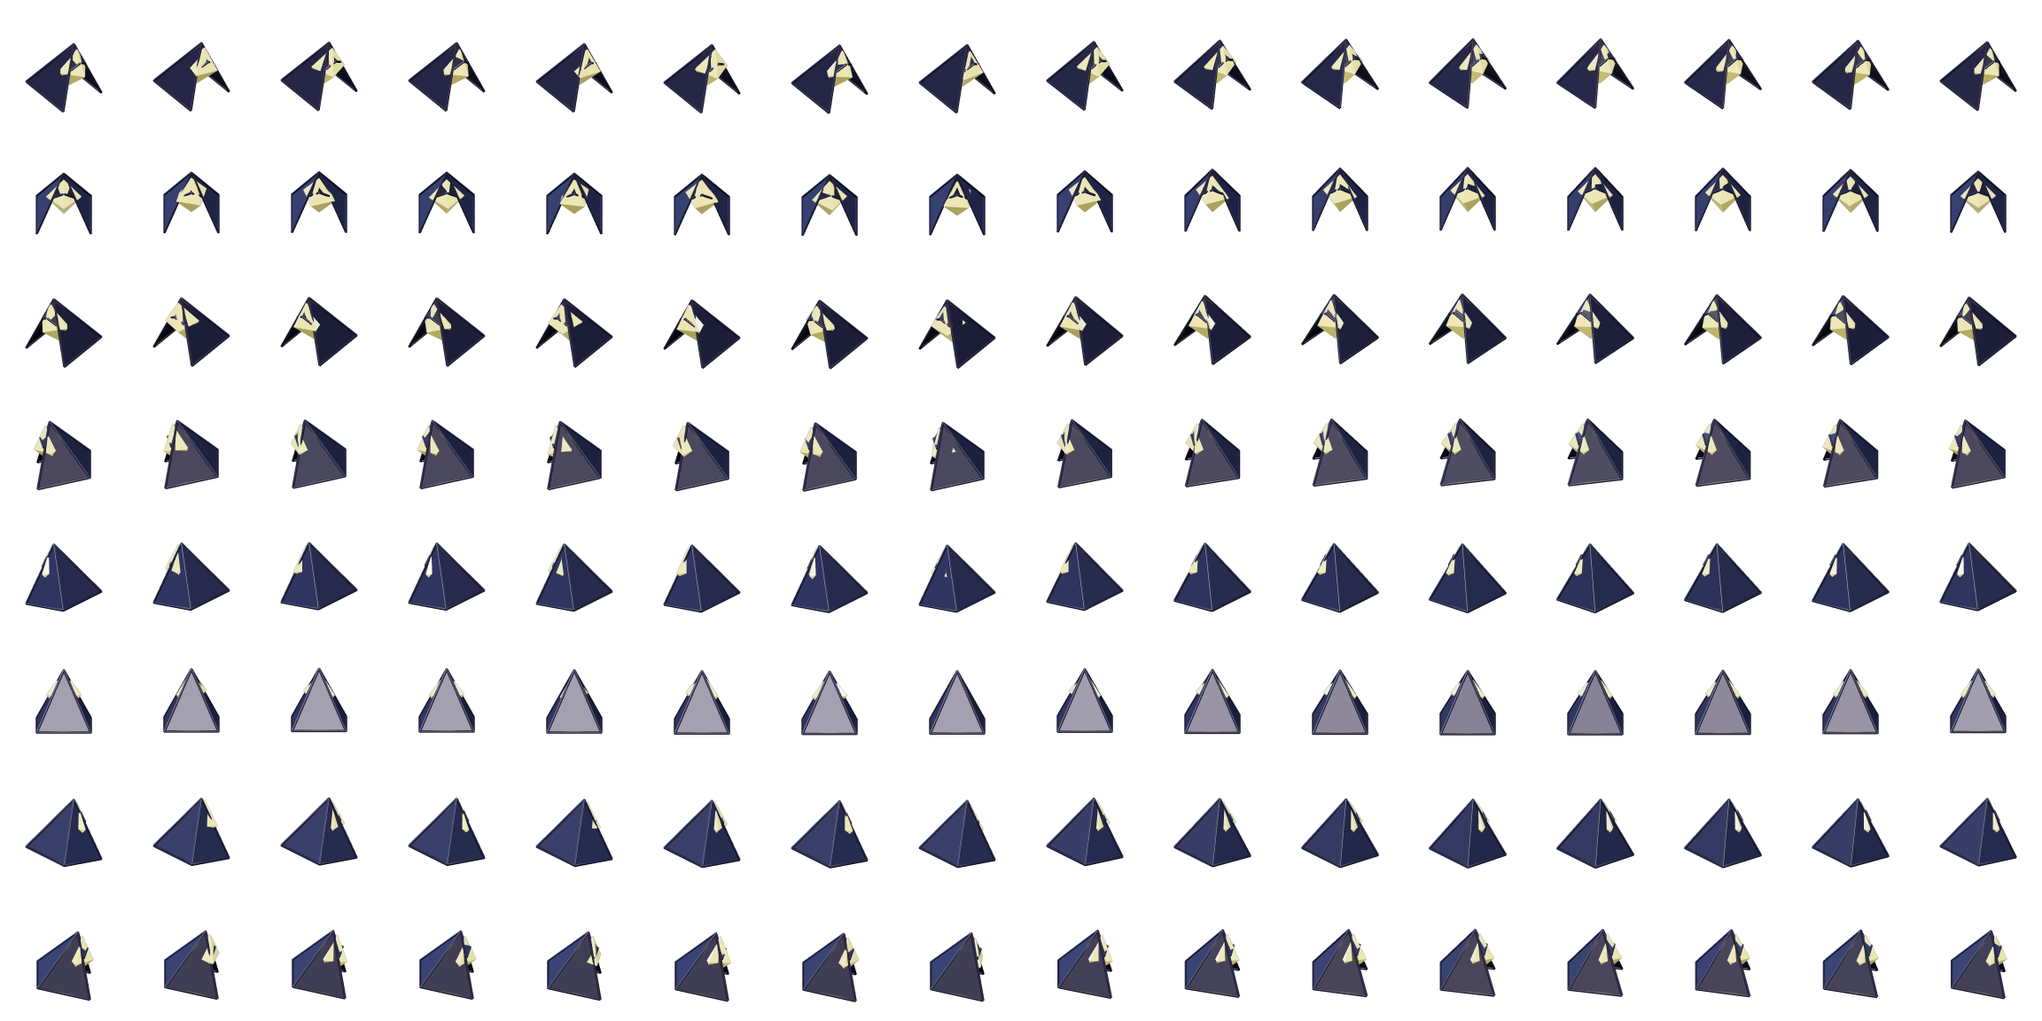
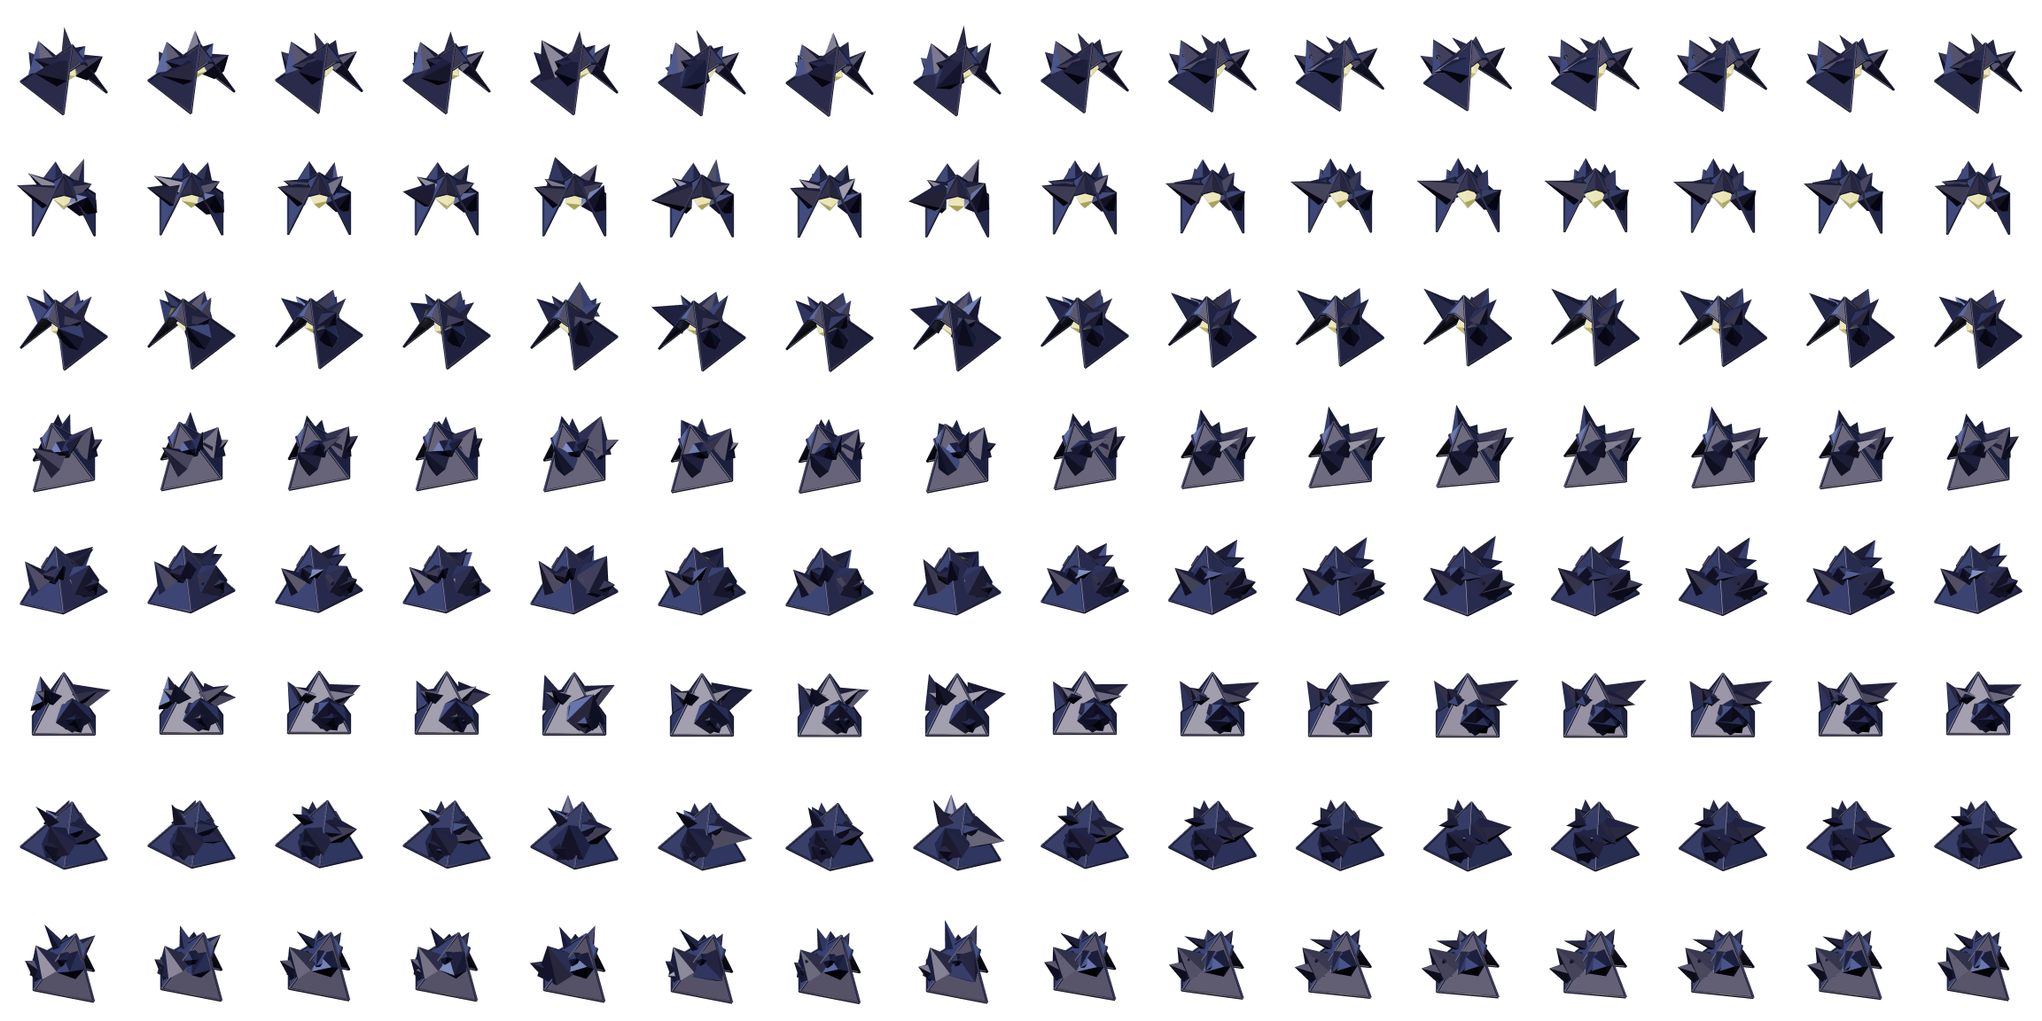
Prism Hood: irregular fat black shards grown from the coat that twitch as if lightning were under the hood
Final look (No. 312's hood with the fat black coat shards of No. 328): the diamond sits wholly inside
under the drooping brim; the shards stay black (no glow, no colour flicker) and move: each of the eight
idle frames is a different jolt (every shard snaps to a new angle and stretches), cycled every 3 steps
standing and every 2 walking (twitch in EVOLUTIONS, _evoFrame). Baked from forms14.js No. 331. Test: the
twitch rates, still vs walking, and that other forms keep their slow idle. Build 2026-10-16d.

Claude-Session: https://claude.ai/code/session_0115DZYYhipQqSk6LHvQcEfz

diff --git a/design/evolutions/forms14.js b/design/evolutions/forms14.js
@@ -393,21 +393,29 @@ function _hoodPyramid(o) {
   const L = new T.PointLight(0xffffff, 1.4, 3.2, 2); L.color.set(EL.color); L.position.set(0, dY, dz + 0.1); pv.add(L); LIGHTS.push(L);
   const shards = []; if (o.shards) for (const s of [-1, 1]) { const c = hexCrystal(0.07, 0.16, 0.22, M.crystal); const sg = G(); sg.add(c); b.add(sg); shards.push({ sg, s }); }
   // IRREGULAR BLACK SHARDS GROWN FROM THE COAT: rooted in the pyramid's faces and ridges, each its own size, angle and shape
+  const jolts = [];   // the coat's shards, to be jolted
   if (o.attached) { const A = o.attached, UPV2 = new T.Vector3(0, 1, 0), faces = [PI / 2, PI, -PI / 2], A0 = R * Math.SQRT1_2, rn = (i, k) => _hz(i * 5 + 1, A.seed + k * 11, k);
     const mkShard = (len, r, i) => { const geo = new T.ConeGeometry(r, len, 4 + Math.floor(rn(i, 40) * 3), 1), p = geo.attributes.position; for (let v = 0; v < p.count; v++) { const x = p.getX(v), y = p.getY(v), z = p.getZ(v), n = _hz(Math.round(x * 400) + i, Math.round(y * 400), Math.round(z * 400)); p.setXYZ(v, x * (0.7 + 0.6 * n), y, z * (0.7 + 0.6 * (1 - n))); } geo.translate(0, len / 2, 0); geo.computeVertexNormals(); return new T.Mesh(geo, _hoodBlack); };
     for (let i = 0; i < A.n; i++) { const ridge = rn(i, 1) < (A.ridge || 0), u = A.uMin + (A.uMax - A.uMin) * rn(i, 2), len = A.len[0] + (A.len[1] - A.len[0]) * Math.pow(rn(i, 3), A.skew || 1), r = len * (0.16 + 0.14 * rn(i, 4)) * (A.fat || 1);
       let pos, nrm; if (ridge) { const a = [3 * PI / 4, 5 * PI / 4, PI / 4, -PI / 4][Math.floor(rn(i, 5) * (A.front ? 4 : 2))], rad = R * (1 - u); pos = new T.Vector3(Math.sin(a) * rad, u * H, Math.cos(a) * rad); nrm = new T.Vector3(Math.sin(a) * H * 0.7, A0 * 0.9, Math.cos(a) * H * 0.7).normalize(); }
       else { const az = faces[Math.floor(rn(i, 5) * faces.length)], a0 = A0 * (1 - u), t = (rn(i, 6) * 2 - 1) * a0 * 0.85, rv = new T.Vector3(Math.sin(az), 0, Math.cos(az)), lv = new T.Vector3(Math.cos(az), 0, -Math.sin(az));
         pos = rv.clone().multiplyScalar(a0).addScaledVector(lv, t).add(new T.Vector3(0, u * H, 0)); nrm = rv.clone().multiplyScalar(H).add(new T.Vector3(0, A0, 0)).normalize(); }
-      const dirv = nrm.clone().add(new T.Vector3((rn(i, 7) - 0.5) * 0.9, (rn(i, 8) - 0.35) * 0.7, (rn(i, 9) - 0.5) * 0.9)).normalize(), sh = mkShard(len, r, i); sh.position.copy(pos).addScaledVector(nrm, -0.03); sh.quaternion.setFromUnitVectors(UPV2, dirv); pv.add(sh);
-      if (rn(i, 10) < (A.twin || 0.3)) { const sh2 = mkShard(len * (0.45 + 0.2 * rn(i, 11)), r * 0.7, i + 100), d2 = dirv.clone().add(new T.Vector3((rn(i, 12) - 0.5) * 1.3, (rn(i, 13) - 0.5) * 1.0, (rn(i, 14) - 0.5) * 1.3)).normalize(); sh2.position.copy(sh.position).addScaledVector(nrm, 0.01); sh2.quaternion.setFromUnitVectors(UPV2, d2); pv.add(sh2); } } }
+      const dirv = nrm.clone().add(new T.Vector3((rn(i, 7) - 0.5) * 0.9, (rn(i, 8) - 0.35) * 0.7, (rn(i, 9) - 0.5) * 0.9)).normalize(), sh = mkShard(len, r, i); sh.position.copy(pos).addScaledVector(nrm, -0.03); sh.quaternion.setFromUnitVectors(UPV2, dirv); pv.add(sh); jolts.push({ m: sh, q: sh.quaternion.clone(), i: jolts.length });
+      if (rn(i, 10) < (A.twin || 0.3)) { const sh2 = mkShard(len * (0.45 + 0.2 * rn(i, 11)), r * 0.7, i + 100), d2 = dirv.clone().add(new T.Vector3((rn(i, 12) - 0.5) * 1.3, (rn(i, 13) - 0.5) * 1.0, (rn(i, 14) - 0.5) * 1.3)).normalize(); sh2.position.copy(sh.position).addScaledVector(nrm, 0.01); sh2.quaternion.setFromUnitVectors(UPV2, d2); pv.add(sh2); jolts.push({ m: sh2, q: sh2.quaternion.clone(), i: jolts.length }); } } }
   // exterior shards are BLACK, the coat's own material: orbiting the hood, as horns on its corners, a crown above the apex, or lying round its base
   const bsh = [], blk = (r, h, t) => hexCrystal(r, h, t, _hoodBlack);
   if (o.black === 'orbit') for (let i = 0; i < (o.blackN || 2); i++) { const gg = G(); gg.add(blk(0.07, 0.14, 0.24)); b.add(gg); bsh.push({ g: gg, orbit: true, ph: i * TAU / (o.blackN || 2), rad: o.shardR, hy: 0.5 }); }
   if (o.black === 'horns') for (let k = 0; k < 4; k++) { const a = PI / 4 + k * PI / 2, hh = G(), c = blk(0.045, 0.1, 0.26); hh.add(c); hh.position.set(Math.sin(a) * R * 0.62, H * 0.28, Math.cos(a) * R * 0.62); hh.rotation.set(Math.cos(a) * 0.9, 0, -Math.sin(a) * 0.9); pv.add(hh); }
   if (o.black === 'crown') { const c = blk(0.06, 0.12, 0.4); c.position.y = H + 0.28; pv.add(c); }
   if (o.black === 'base') for (let k = 0; k < 7; k++) { const a = k * TAU / 7 + 0.3, c = blk(0.045 + 0.02 * _hz(k, 3, 1), 0.08 + 0.05 * _hz(k, 3, 2), 0.18 + 0.1 * _hz(k, 3, 3)), hh = G(); hh.add(c); hh.position.set(Math.sin(a) * R * 1.12, 0, Math.cos(a) * R * 1.12); hh.rotation.set(Math.cos(a) * 0.5, 0, -Math.sin(a) * 0.5); hh.position.y = 0.1; b.add(hh); }
+  // LIGHTNING UNDER THE HOOD, as MOVEMENT: the black shards stay black but are shoved about from beneath: every beat each one snaps to a new angle and stretches
+  // in a jerk, some popping hard, the rest settling (a hash of the beat, so the 8 baked frames loop). No light, no flicker of colour.
+  const _qa = new T.Quaternion(), _qb = new T.Quaternion(), _ea = new T.Euler(), jolt = (ph, ac) => { const beat = Math.floor(ph / TAU * 8 + 0.0001) % 8;
+    for (const J of jolts) { const h1 = _hz(J.i * 7 + beat, 3, 1), h2 = _hz(J.i * 5, beat * 9 + 1, 2), h3 = _hz(J.i, beat * 3, 3), pop = h3 > 0.55 ? 1 : 0.25, k = (0.34 + 0.3 * ac) * pop;
+      _ea.set((h1 - 0.5) * 2 * k, (h2 - 0.5) * 2 * k * 0.6, (h3 - 0.5) * 2 * k); _qa.setFromEuler(_ea); J.m.quaternion.copy(J.q).multiply(_qa);
+      J.m.scale.set(1 + 0.25 * pop * h1, 1 + (0.45 * pop + 0.5 * ac) * h2 + 0.05, 1 + 0.25 * pop * h1); } };
   return { g, core: (hv + dY) * (o.S || 1), update(t, act) { const ph = 1.6 * t, ac = act || 0;
+    if (o.jolt) jolt(ph, ac);
     pv.position.y = hv + 0.03 * Math.sin(ph); pv.rotation.x = tilt - 0.12 * ac; d.rotation.y = ph * 0.7; dc.rotation.y = -ph * 0.7; d.position.y = dY + 0.02 * Math.sin(ph * 2); dc.position.y = d.position.y;
     dg.scale.setScalar(o.dR * (8 + 2 * Math.sin(ph * 3) + 5 * ac)); L.intensity = 1.4 + 0.4 * Math.sin(ph * 3) + 0.8 * ac;
     for (const s of shards) { const a = ph + (s.s > 0 ? 0 : PI); s.sg.position.set(s.s * o.shardR + Math.sin(a) * 0.05, hv + H * 0.55 + 0.06 * Math.sin(ph * 2 + s.s), 0.1 + 0.1 * Math.cos(a)); s.sg.rotation.set(0.2 * Math.sin(ph), a, s.s * 0.25); }
@@ -468,3 +476,8 @@ const _h325 = { n: 7, uMin: 0.1, uMax: 0.6, len: [0.22, 0.5], skew: 0.8, seed: 1
 fx(327, "325, fatter shards.", () => _hoodPyramid(Object.assign({}, _ha, { attached: Object.assign({}, _h325, { fat: 1.8 }) })));
 fx(328, "325, much fatter shards.", () => _hoodPyramid(Object.assign({}, _ha, { attached: Object.assign({}, _h325, { fat: 2.5 }) })));
 fx(329, "325, chunky fat shards, slightly shorter.", () => _hoodPyramid(Object.assign({}, _ha, { attached: Object.assign({}, _h325, { fat: 3.0, len: [0.2, 0.42] }) })));
+
+// ── The game version of 325, fatter (as 328), its black shards jolting about as if lightning were under the hood ──
+const _h328 = { n: 7, uMin: 0.1, uMax: 0.6, len: [0.22, 0.5], skew: 0.8, seed: 11, twin: 0.2, ridge: 0.3, fat: 2.5 };
+fx(330, "Jolting coat: lightning under the hood, as movement (mock sheet).", () => _hoodPyramid(Object.assign({}, _ha, { attached: _h328, jolt: true })));
+fx(331, "Jolting coat: the game sprite.", () => _hoodPyramid(Object.assign({}, _ha, { attached: _h328, jolt: true, yaw: 0, S: 1.45 })));

diff --git a/game.html b/game.html
@@ -1363,12 +1363,12 @@ function _showError(msg) {
 // Script files that failed to download. A missing file raises no error of its
 // own — only the "Can't find variable" from whatever needed it — so the load
 // failure is caught here, on its way down (capture phase).
-// THE BUILD. Every script URL below carries ?v=2026-10-16c, so a new deploy
+// THE BUILD. Every script URL below carries ?v=2026-10-16d, so a new deploy
 // fetches a matching set: REPORTED, an iPad ran the new js/indexart.js against
 // an old cached js/config.js ("Attempted to assign to readonly property").
 // Change this, the ?v= on every script tag and BUILD_VERSION in js/config.js
 // together (tests/boot.js checks they agree).
-window.__PAGE_BUILD = "2026-10-16c";
+window.__PAGE_BUILD = "2026-10-16d";
 window.__bootFailed = [];
 window.addEventListener("error", function (e) {
     var t = e && e.target;
@@ -1404,53 +1404,53 @@ if (!CanvasRenderingContext2D.prototype.roundRect) {
 </script>
 
 <!-- Game scripts — load order matters (globals first, logic last) -->
-<script src="js/config.js?v=2026-10-16c"></script>
-<script src="js/icons.js?v=2026-10-16c"></script>
-<script src="js/rng.js?v=2026-10-16c"></script>
-<script src="js/traits.js?v=2026-10-16c"></script>
-<script src="js/elements.js?v=2026-10-16c"></script>
-<script src="js/combat.js?v=2026-10-16c"></script>
-<script src="js/species.js?v=2026-10-16c"></script>
-<script src="js/levels.js?v=2026-10-16c"></script>
-<script src="js/predator_randomizer.js?v=2026-10-16c"></script>
-<script src="js/mass.js?v=2026-10-16c"></script>
-<script src="js/infest.js?v=2026-10-16c"></script>
-<script src="js/power.js?v=2026-10-16c"></script>
-<script src="js/save.js?v=2026-10-16c"></script>
-<script src="js/camp.js?v=2026-10-16c"></script>
-<script src="js/wavedata.js?v=2026-10-16c"></script>
-<script src="js/helpers.js?v=2026-10-16c"></script>
-<script src="js/predator.js?v=2026-10-16c"></script>
-<script src="js/abilities.js?v=2026-10-16c"></script>
-<script src="js/world.js?v=2026-10-16c"></script>
-<script src="js/commands.js?v=2026-10-16c"></script>
-<script src="js/npc.js?v=2026-10-16c"></script>
-<script src="js/codex.js?v=2026-10-16c"></script>
-<script src="js/draw.js?v=2026-10-16c"></script>
-<script src="js/beetle3d.js?v=2026-10-16c"></script>
-<script src="js/bugs3d.js?v=2026-10-16c"></script>
-<script src="js/ui.js?v=2026-10-16c"></script>
-<script src="js/waves.js?v=2026-10-16c"></script>
-<script src="js/drops.js?v=2026-10-16c"></script>
-<script src="js/clone.js?v=2026-10-16c"></script>
-<script src="js/clonework.js?v=2026-10-16c"></script>
-<script src="js/broods.js?v=2026-10-16c"></script>
-<script src="js/raids.js?v=2026-10-16c"></script>
-<script src="js/ultra.js?v=2026-10-16c"></script>
-<script src="js/formations.js?v=2026-10-16c"></script>
-<script src="js/breakout.js?v=2026-10-16c"></script>
-<script src="js/nightraids.js?v=2026-10-16c"></script>
-<script src="js/bonds.js?v=2026-10-16c"></script>
-<script src="js/autoplay.js?v=2026-10-16c"></script>
-<script src="js/indexart.js?v=2026-10-16c"></script>
-<script src="js/modules.js?v=2026-10-16c"></script>
-<script src="js/shieldcells.js?v=2026-10-16c"></script>
-<script src="js/evolution.js?v=2026-10-16c"></script>
-<script src="js/buildmenu.js?v=2026-10-16c"></script>
-<script src="js/input.js?v=2026-10-16c"></script>
-<script src="js/game.js?v=2026-10-16c"></script>
-<script src="js/tutorial.js?v=2026-10-16c"></script>
-<script src="js/dev.js?v=2026-10-16c"></script>
+<script src="js/config.js?v=2026-10-16d"></script>
+<script src="js/icons.js?v=2026-10-16d"></script>
+<script src="js/rng.js?v=2026-10-16d"></script>
+<script src="js/traits.js?v=2026-10-16d"></script>
+<script src="js/elements.js?v=2026-10-16d"></script>
+<script src="js/combat.js?v=2026-10-16d"></script>
+<script src="js/species.js?v=2026-10-16d"></script>
+<script src="js/levels.js?v=2026-10-16d"></script>
+<script src="js/predator_randomizer.js?v=2026-10-16d"></script>
+<script src="js/mass.js?v=2026-10-16d"></script>
+<script src="js/infest.js?v=2026-10-16d"></script>
+<script src="js/power.js?v=2026-10-16d"></script>
+<script src="js/save.js?v=2026-10-16d"></script>
+<script src="js/camp.js?v=2026-10-16d"></script>
+<script src="js/wavedata.js?v=2026-10-16d"></script>
+<script src="js/helpers.js?v=2026-10-16d"></script>
+<script src="js/predator.js?v=2026-10-16d"></script>
+<script src="js/abilities.js?v=2026-10-16d"></script>
+<script src="js/world.js?v=2026-10-16d"></script>
+<script src="js/commands.js?v=2026-10-16d"></script>
+<script src="js/npc.js?v=2026-10-16d"></script>
+<script src="js/codex.js?v=2026-10-16d"></script>
+<script src="js/draw.js?v=2026-10-16d"></script>
+<script src="js/beetle3d.js?v=2026-10-16d"></script>
+<script src="js/bugs3d.js?v=2026-10-16d"></script>
+<script src="js/ui.js?v=2026-10-16d"></script>
+<script src="js/waves.js?v=2026-10-16d"></script>
+<script src="js/drops.js?v=2026-10-16d"></script>
+<script src="js/clone.js?v=2026-10-16d"></script>
+<script src="js/clonework.js?v=2026-10-16d"></script>
+<script src="js/broods.js?v=2026-10-16d"></script>
+<script src="js/raids.js?v=2026-10-16d"></script>
+<script src="js/ultra.js?v=2026-10-16d"></script>
+<script src="js/formations.js?v=2026-10-16d"></script>
+<script src="js/breakout.js?v=2026-10-16d"></script>
+<script src="js/nightraids.js?v=2026-10-16d"></script>
+<script src="js/bonds.js?v=2026-10-16d"></script>
+<script src="js/autoplay.js?v=2026-10-16d"></script>
+<script src="js/indexart.js?v=2026-10-16d"></script>
+<script src="js/modules.js?v=2026-10-16d"></script>
+<script src="js/shieldcells.js?v=2026-10-16d"></script>
+<script src="js/evolution.js?v=2026-10-16d"></script>
+<script src="js/buildmenu.js?v=2026-10-16d"></script>
+<script src="js/input.js?v=2026-10-16d"></script>
+<script src="js/game.js?v=2026-10-16d"></script>
+<script src="js/tutorial.js?v=2026-10-16d"></script>
+<script src="js/dev.js?v=2026-10-16d"></script>
 <script>
 // ── BOOT CHECK ────────────────────────────────────────────
 // Every file above must have arrived and run before init.js starts the game.
@@ -1503,7 +1503,7 @@ if (!CanvasRenderingContext2D.prototype.roundRect) {
     document.body.appendChild(d);
 })();
 </script>
-<script src="js/init.js?v=2026-10-16c"></script>
+<script src="js/init.js?v=2026-10-16d"></script>
 
 </body>
 </html>

diff --git a/js/evolution.js b/js/evolution.js
@@ -83,7 +83,10 @@
 //          power in ice damage and is frozen stiff for MAW_STUN frames, and everything within
 //          MAW_SLOW_R of it is slowed to MAW_SLOW for MAW_SLOW_FRAMES.
 //          PRISM HOOD (the ELECTRIC BRAWLER, design No. 312: a hollow black pyramid whose front
-//          droops like a hood over the top half of an octahedron diamond), replaced the Storm Manta
+//          droops like a hood over the top half of an octahedron diamond, irregular black shards
+//          growing from its coat that TWITCH, as if lightning were under the hood: the shards stay
+//          black and move; each idle frame is a different jolt, cycled fast, faster still walking),
+//          replaced the Storm Manta
 //          for new evolutions and does the same STATIC RUSH (the Storm Manta stays defined, marked legacy,
 //          for followers already evolved into it).
 //   LOOK   Baked from the 3D design models (design/evolutions/) into sprite
@@ -137,7 +140,7 @@ const EVOLUTIONS = {
               cell: 144, anchor: [72, 114.2], core: [72, 93], noGlow: true, color: "#9fe8ff", ground: "img/evo/maw_g.png" },
     // The ELECTRIC BRAWLER, design No. 312: a black hollow pyramid hood over a diamond. The diamond turns, so its sheet carries its own light.
     prism:  { id: "prism",  name: "PRISM HOOD",   element: "electric", role: "brawler", move: "STATIC RUSH",  sheet: "img/evo/prism.png",
-              cell: 144, anchor: [72, 114.2], core: [72, 68.4], noGlow: true, color: "#ffee33" },
+              cell: 144, anchor: [72, 114.2], core: [72, 75.9], noGlow: true, color: "#ffee33", twitch: { idle: 3, walk: 2 } },
     // The CORE MAGE ("sniper" in the code), design No. 220: a black shell-jar dragged along the ground on its side by fat, irregular
     // tentacles, a shard horn at the mouth. The tentacles move, so its sheet carries its own light.
     hornshell:{ id: "hornshell", name: "HORNSHELL", element: "core", role: "sniper", move: "AEGIS BLOOM", sheet: "img/evo/hornshell.png",
@@ -507,6 +510,14 @@ function _evoFrame(f, d, f0) {
     const rise = m < EVO_MOLT ? 1 - Math.pow(1 - u, 3) : 1;
     const sigK = f._sigAt !== undefined ? (f0 - f._sigAt) / EVO_ACT_FRAMES : 9;
     let col = Math.floor(f0 / 7) % 8;
+    // TWITCH (the Prism Hood): its idle frames are not a smooth loop but eight different jolts of its shards, so they run fast, and faster still while it walks
+    if (d.twitch) {
+        if (f._evTf !== f0) {
+            const moved = f._evx !== undefined && Math.hypot(f.x - f._evx, f.y - f._evy) > 0.002;
+            f._evx = f.x; f._evy = f.y; f._evTf = f0; f._evT = (f._evT || 0) + 1 / (moved ? d.twitch.walk : d.twitch.idle);
+        }
+        col = Math.floor(f._evT || 0) % 8;
+    }
     if (sigK >= 0 && sigK < 1) col = 8 + Math.min(7, Math.floor(sigK * 8));
     else if (f.state === "attack") col = 8 + Math.min(7, Math.floor(((f.attackAnim || 0) / Math.PI) * 8));
     return { m, rise, sigK, col, row: _evoFacing(f), s: EVO_SCALE * (0.6 + 0.4 * rise) };

diff --git a/tests/evolution.js b/tests/evolution.js
@@ -327,6 +327,22 @@ function same(a, b, m) { if (a !== b) throw new Error(`${m}: expected ${JSON.str
         ok(r.dist < 1 && r.dmg > 0 && r.stun, 'the prism hood did not rush: ' + JSON.stringify(r));
     });
 
+    check('THE ASK: the PRISM HOOD\'s black shards TWITCH: its idle frames cycle fast, and faster still while it walks', () => {
+        const r = run(`(function(){ followers.length = 0; actors = actors.filter(a => !a.isFollower);
+            spawnFollowerAtCrystal('electric'); const f = followers[0]; f.returningToCrystal = false; f.role = 'brawler'; f.evolved = 'prism'; f._moltAt = -1e9; f.x = 20; f.y = 2; f.dirX = 1; f.dirY = 0;
+            const d = EVOLUTIONS.prism, still = [], walk = [];
+            const colOf = () => { frame++; const fr = _evoFrame(f, d, frame); return fr.col; };
+            colOf(); for (let i = 0; i < 24; i++) still.push(colOf());
+            for (let i = 0; i < 24; i++) { f.x += 0.02; walk.push(colOf()); }
+            const changes = a => a.filter((c, i) => i && c !== a[i - 1]).length;
+            return { still: changes(still), walk: changes(walk), cols: [...new Set(still)].length, tw: !!d.twitch, cell: d.cell, kept: [...still, ...walk].every(c => c >= 0 && c < 8) }; })()`);
+        ok(r.tw && r.kept, 'it does not twitch: ' + JSON.stringify(r));
+        ok(r.still >= 6 && r.cols >= 6, 'standing still it should change frame every few steps: ' + JSON.stringify(r));
+        ok(r.walk > r.still, 'walking should twitch faster than standing: ' + JSON.stringify(r));
+        // the other forms keep their slow, smooth idle (one frame per 7 steps)
+        const slow = run(`(function(){ spawnFollowerAtCrystal('fire'); const f = followers[followers.length - 1]; f.evolved = 'bloom'; f._moltAt = -1e9; const cs = []; for (let i = 0; i < 14; i++) { frame++; cs.push(_evoFrame(f, EVOLUTIONS.bloom, frame).col); } return cs.filter((c, i) => i && c !== cs[i - 1]).length; })()`);
+        ok(slow <= 3, 'the others should not twitch: ' + slow);
+    });
     check('THE ASK: HEAVY HAUL — the hover hauler pays double shards, hauls faster and reaches further than a plain flux worker', () => {
         const r = run(`(function(){ followers.length = 0; actors = actors.filter(a => !a.isFollower);
             const mk = (evo) => { spawnFollowerAtCrystal('flux'); const f = followers[followers.length - 1]; f.returningToCrystal = false; f.duty = 'worker'; if (evo) f.evolved = 'hauler'; return f; };

diff --git a/design/evolutions/bake.js b/design/evolutions/bake.js
@@ -25,7 +25,7 @@ const JOBS = [
   { id: 'halo',   form: 90, color: '#ff3300', idleAct: 0.1, action: [0.6, 1.0] },
   // No. 101, the toxic sniper: the pool's shift loops over the idle period; its action is the recoil of a shot.
   // No. 314 (a game-ready No. 312), the electric brawler: a black hollow pyramid hood drooping over the top half of an octahedron diamond; its action frames bow the hood and flare the diamond.
-  { id: 'prism', form: 314, color: '#ffe033', idleAct: 0, action: [0, 1.0], pulse: true },
+  { id: 'prism', form: 331, color: '#ffe033', idleAct: 0, action: [0, 1.0], pulse: true },
   // No. 220, the core mage: a black shell-jar dragged on its side by fat irregular tentacles, a shard horn at its mouth; the horn drops to aim in its action frames.
   { id: 'hornshell', form: 220, color: '#00ccaa', idleAct: 0, action: [0, 1.0], pulse: true },
   // No. 156, the ice brawler: a dome with a cave mouth; the rubble is its ground layer; its action frames are the bite (the fangs swing down), up and back.

diff --git a/js/config.js b/js/config.js
@@ -4,7 +4,7 @@
 
 // The build this file belongs to — the same as window.__PAGE_BUILD and the
 // ?v= on every script tag in game.html (the boot check compares them).
-const BUILD_VERSION = "2026-10-16c";
+const BUILD_VERSION = "2026-10-16d";
 
 // ── GLOBAL ERROR DISPLAY ──────────────────────────────────
 // Lives in game.html (_showError), before any file loads. This file used to
